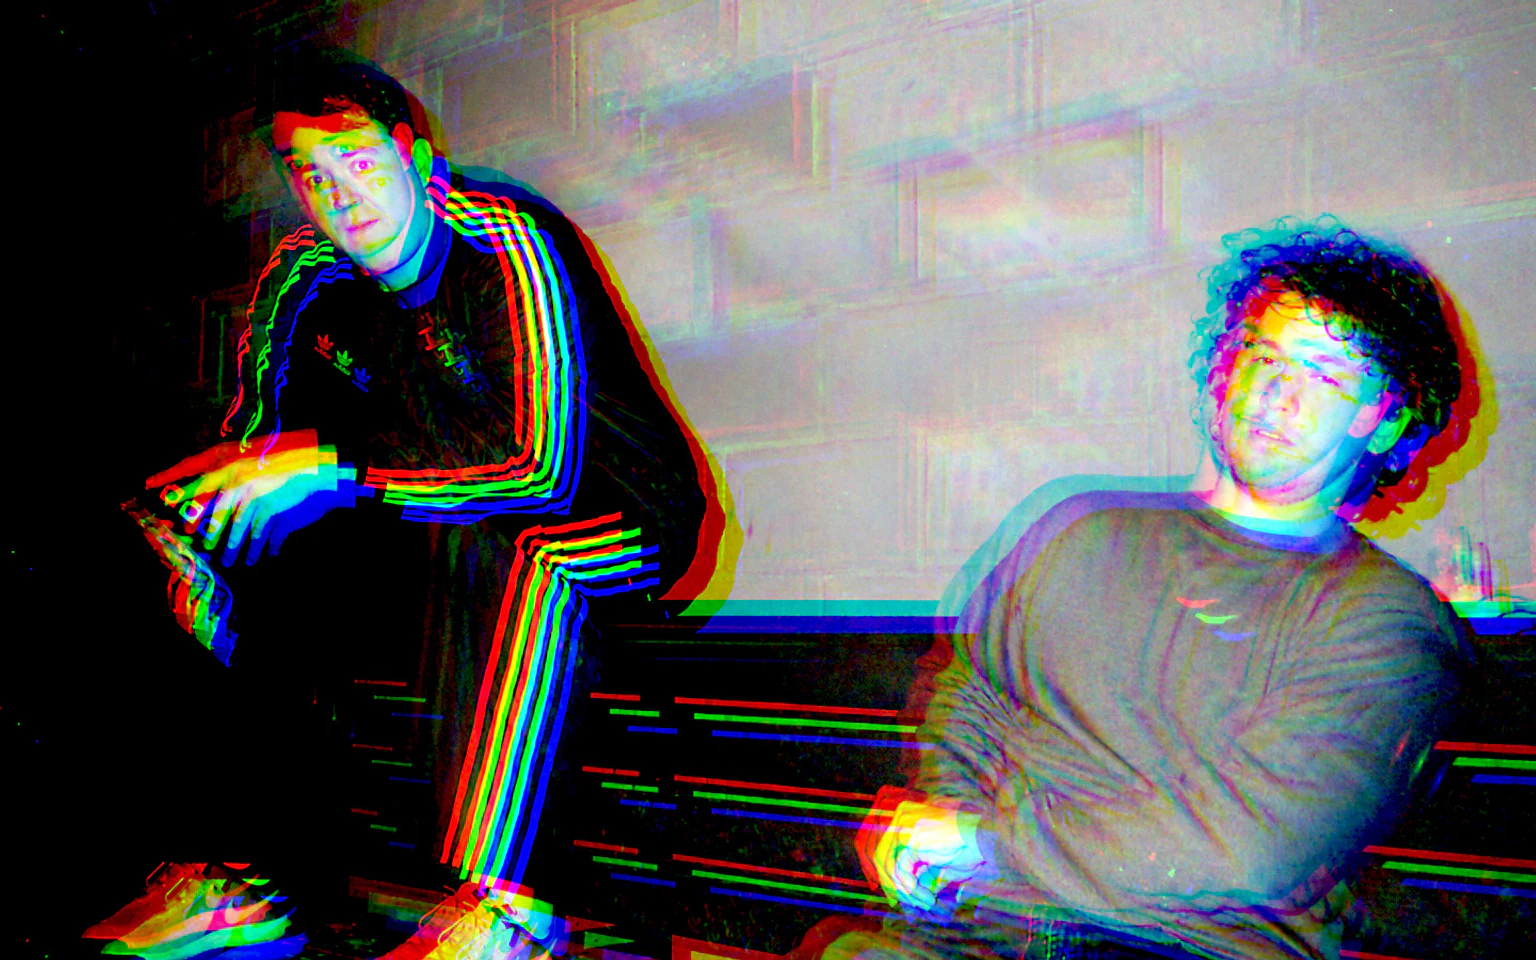
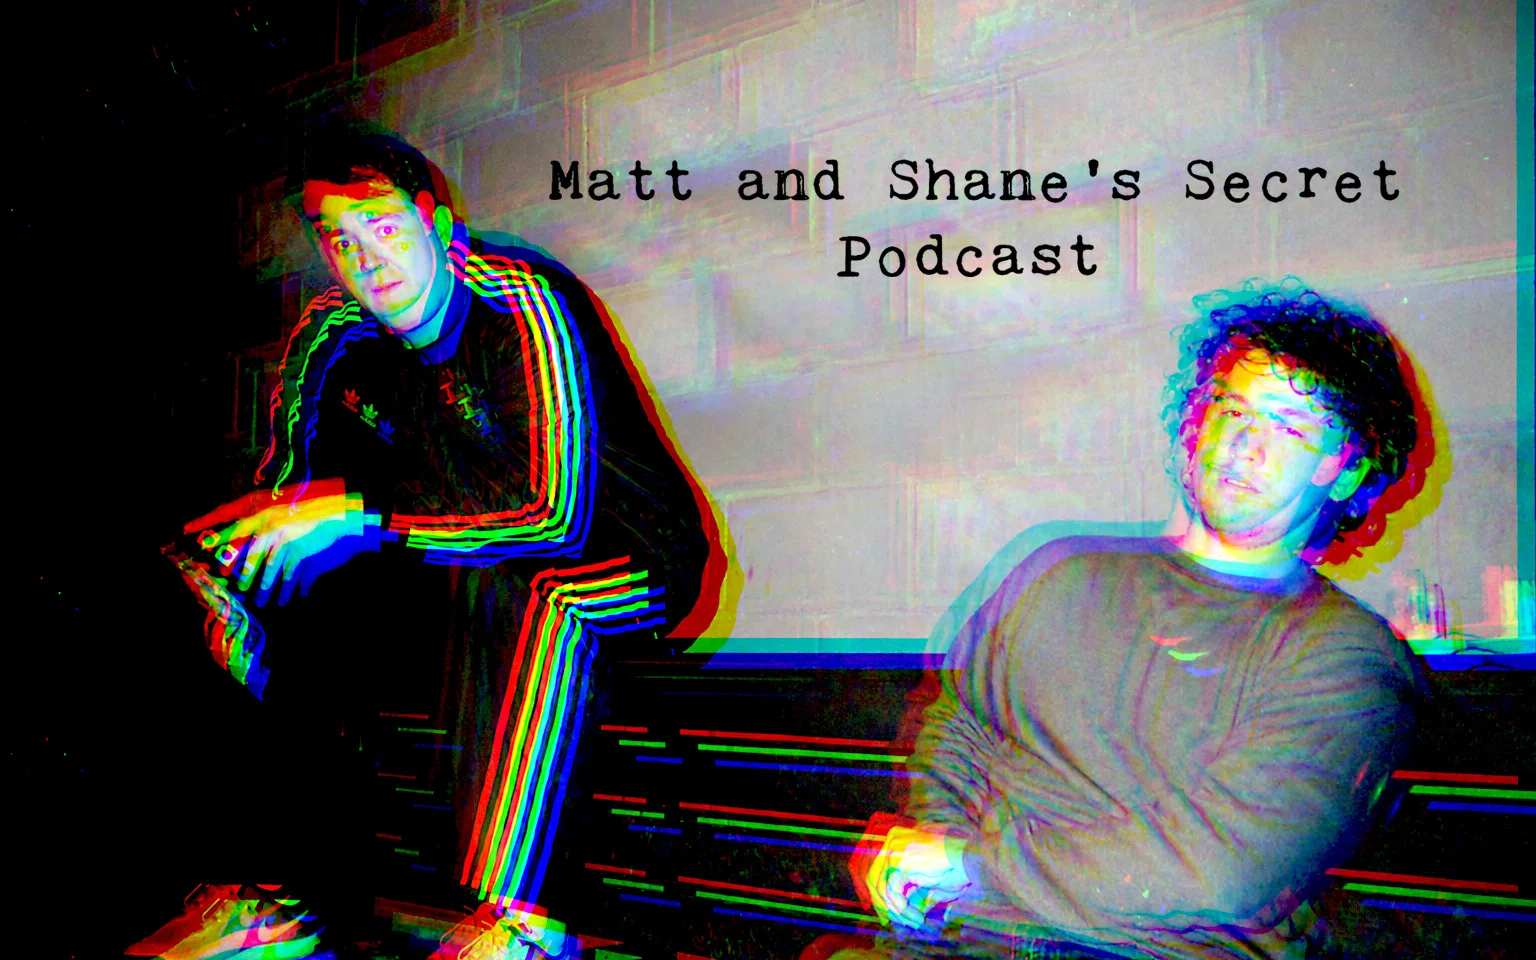
winodw

diff --git a/data/The PAYTCH/MSSP - The PAYTCH.md b/data/The PAYTCH/MSSP - The PAYTCH.md
@@ -272,7 +272,7 @@
 | 2024-03-25 | MSSP | PAYTCH | 486 | SEVEN PARROTS |
 | 2024-03-28 | MSSP | PAYTCH | 487 | SUS PATROL |
 | 2024-04-03 | MSSP | PAYTCH | EX | Overton Window 1 |
-| 2024-04-03 | MSSP | PAYTCH | EX | Overton Winodw pt 2 ft Egan Robinson |
+| 2024-04-03 | MSSP | PAYTCH | EX | Overton Window pt 2 ft Egan Robinson |
 | 2024-04-11 | MSSP | PAYTCH | 489 | THE COUNCIL |
 | 2024-04-17 | MSSP | PAYTCH | 490 | THE TRUTH ABOUT WATERGATE |
 | 2024-04-25 | MSSP | PAYTCH | 491 | WHO PIPED CARL WINSLOW |

diff --git a/data/The Holy Trinity/MSSP - The Holy Trinity.md b/data/The Holy Trinity/MSSP - The Holy Trinity.md
@@ -648,7 +648,7 @@
 | 2024-03-28 | MSSP |  | 487 | Sus Patrol |
 | 2024-03-28 | MSSP | PAYTCH | 487 | SUS PATROL |
 | 2024-04-03 | MSSP | PAYTCH | EX | Overton Window 1 |
-| 2024-04-03 | MSSP | PAYTCH | EX | Overton Winodw pt 2 ft Egan Robinson |
+| 2024-04-03 | MSSP | PAYTCH | EX | Overton Window pt 2 ft Egan Robinson |
 | 2024-04-04 | MSSP |  | 488 | The Spirit of Pearl Jam (feat. Andrew Callaghan) |
 | 2024-04-11 | MSSP |  | 489 | The Council |
 | 2024-04-11 | MSSP | PAYTCH | 489 | THE COUNCIL |

diff --git a/tools/episode-update/update/MSSP - The Holy Trinity.md b/tools/episode-update/update/MSSP - The Holy Trinity.md
@@ -649,7 +649,7 @@
 | 2024-03-28 | MSSP |  | 487 | Sus Patrol |
 | 2024-03-28 | MSSP | PAYTCH | 487 | SUS PATROL |
 | 2024-04-03 | MSSP | PAYTCH | EX | Overton Window 1 |
-| 2024-04-03 | MSSP | PAYTCH | EX | Overton Winodw pt 2 ft Egan Robinson |
+| 2024-04-03 | MSSP | PAYTCH | EX | Overton Window pt 2 ft Egan Robinson |
 | 2024-04-04 | MSSP |  | 488 | The Spirit of Pearl Jam (feat. Andrew Callaghan) |
 | 2024-04-11 | MSSP |  | 489 | The Council |
 | 2024-04-11 | MSSP | PAYTCH | 489 | THE COUNCIL |
